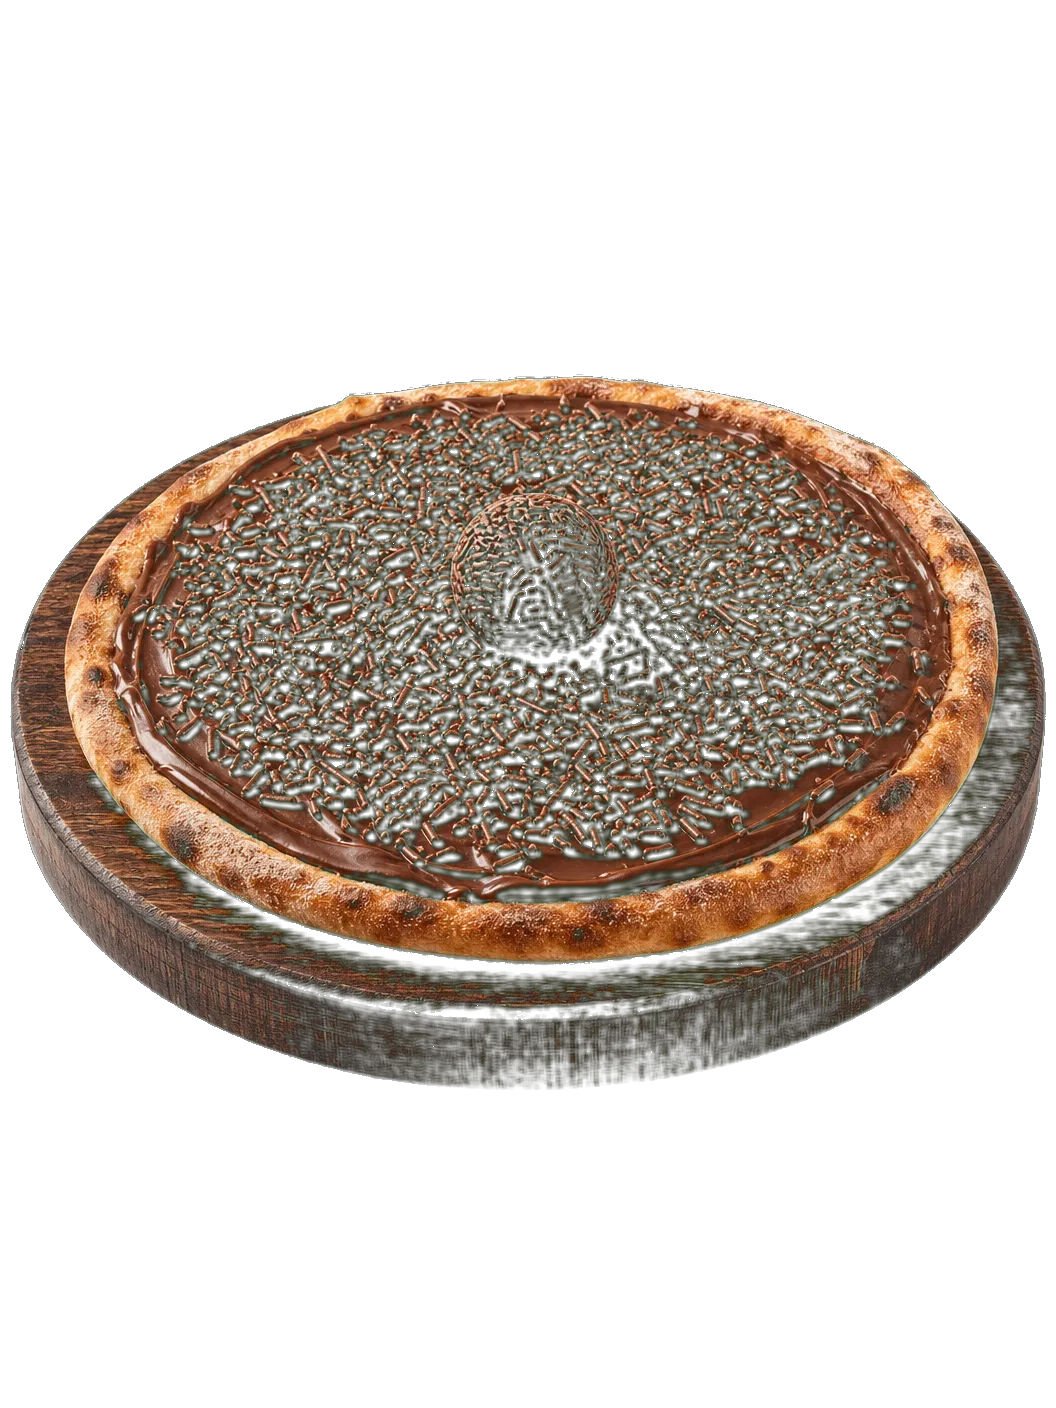
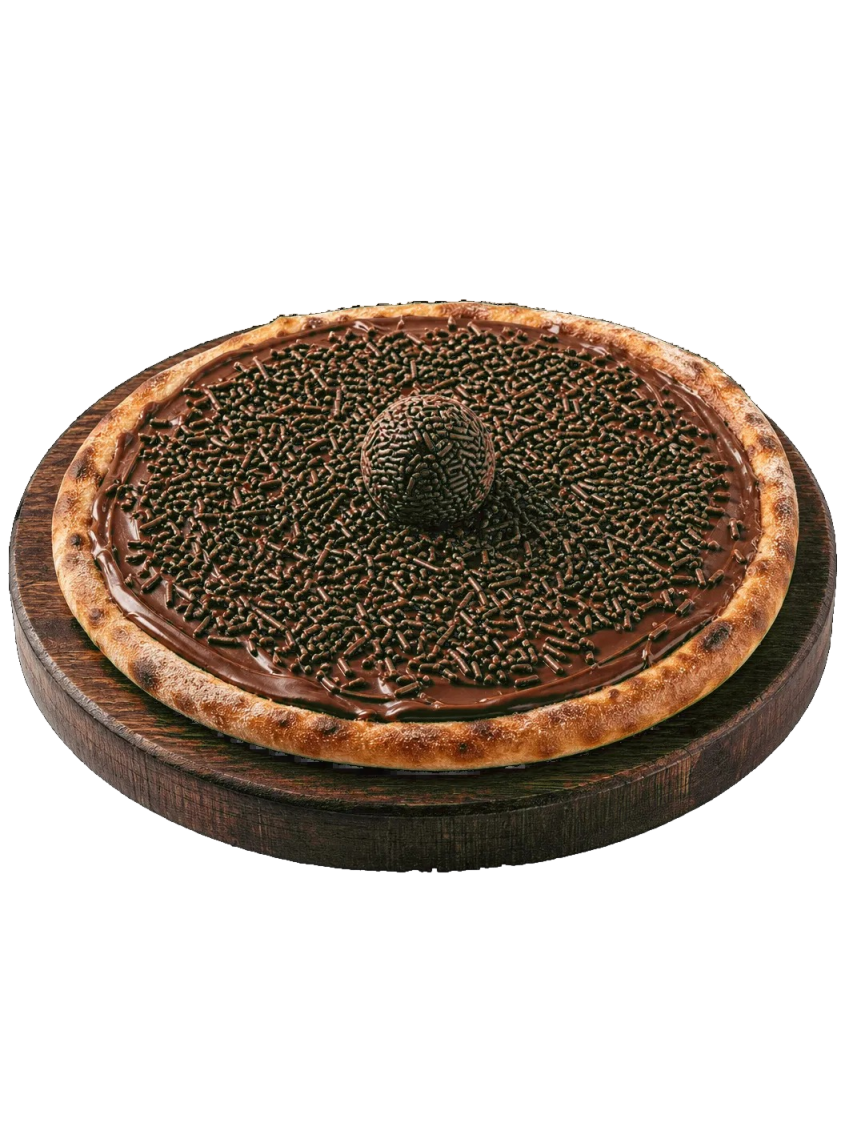
correção endereço imagens

Changed region(s): [[0.1231, 0.2795, 1.0, 0.7764], [0.0923, 0.559, 0.1231, 0.5901], [0.0, 0.4348, 0.0308, 0.4658]]

diff --git a/components/loader.js b/components/loader.js
@@ -80,30 +80,30 @@ document.addEventListener("DOMContentLoaded", () => {
     // BUSCA COM AUTOCOMPLETE
     // ============================================================
     const catalogoBusca = [
-        { sabor: "calabresa",            titulo: "Pizza de Calabresa",              preco: "R$ 62,00", imagem: "images/cardapio_pizza/pizza1.jpg" },
-        { sabor: "margherita",            titulo: "Pizza Margherita",                preco: "R$ 65,00", imagem: "images/cardapio_pizza/pizza2.jpg" },
-        { sabor: "frango_catupiry",       titulo: "Pizza de Frango c/ Catupiry",     preco: "R$ 60,00", imagem: "images/cardapio_pizza/pizza3.jpg" },
-        { sabor: "queijo",               titulo: "Pizza de Queijo",                 preco: "R$ 64,00", imagem: "images/cardapio_pizza/pizza4.jpg" },
-        { sabor: "portuguesa",           titulo: "Pizza Portuguesa",                preco: "R$ 66,00", imagem: "images/cardapio_pizza/pizza5.jpg" },
-        { sabor: "quatro_queijos",       titulo: "Pizza 4 Queijos",                 preco: "R$ 66,00", imagem: "images/cardapio_pizza/pizza6.jpg" },
-        { sabor: "palmito",              titulo: "Pizza de Palmito",               preco: "R$ 66,00", imagem: "images/cardapio_pizza/pizza7.jpg" },
-        { sabor: "presunto_queijo",      titulo: "Pizza de Presunto e Queijo",      preco: "R$ 66,00", imagem: "images/cardapio_pizza/pizza8.jpg" },
-        { sabor: "bacon",                titulo: "Pizza de Bacon",                  preco: "R$ 63,00", imagem: "images/cardapio_pizza/pizza9.jpg" },
-        { sabor: "pepperoni",            titulo: "Pizza de Pepperoni",              preco: "R$ 63,00", imagem: "images/cardapio_pizza/pizza10.jpg" },
-        { sabor: "moda_casa",            titulo: "Pizza à Moda da Casa",            preco: "R$ 63,00", imagem: "images/cardapio_pizza/pizza11.jpg" },
-        { sabor: "strogonoff",           titulo: "Pizza de Strogonoff",             preco: "R$ 63,00", imagem: "images/cardapio_pizza/pizza12.jpg" },
-        { sabor: "margherita_veggie",    titulo: "Pizza Margherita Vegetariana",    preco: "R$ 70,00", imagem: "images/cardapio_pizza/pizza2.jpg" },
-        { sabor: "milho_catupiry",       titulo: "Pizza de Milho com Catupiry",     preco: "R$ 70,00", imagem: "images/cardapio_pizza/pizza14.jpg" },
-        { sabor: "escarola",             titulo: "Pizza de Escarola",               preco: "R$ 72,00", imagem: "images/cardapio_pizza/pizza15.jpg" },
-        { sabor: "berinjela",            titulo: "Pizza de Berinjela",              preco: "R$ 70,00", imagem: "images/cardapio_pizza/pizza16.jpg" },
-        { sabor: "funghi",               titulo: "Pizza de Funghi",                 preco: "R$ 72,00", imagem: "images/cardapio_pizza/pizza17.jpg" },
-        { sabor: "vegetariana_completa", titulo: "Pizza Vegetariana Completa",      preco: "R$ 74,00", imagem: "images/cardapio_pizza/pizza18.jpg" },
-        { sabor: "brigadeiro",           titulo: "Pizza de Brigadeiro",             preco: "R$ 62,00", imagem: "images/sobremesas/sobremesa1.jfif" },
-        { sabor: "morango_chocolate",    titulo: "Pizza de Morango com Chocolate",  preco: "R$ 65,00", imagem: "images/sobremesas/sobremesa2.jfif" },
-        { sabor: "romeu_julieta",        titulo: "Pizza Romeu e Julieta",           preco: "R$ 60,00", imagem: "images/sobremesas/sobremesa3.jfif" },
-        { sabor: "banana_canela",        titulo: "Pizza de Banana com Canela",      preco: "R$ 64,00", imagem: "images/sobremesas/sobremesa4.jfif" },
-        { sabor: "nutella_morango",      titulo: "Pizza de Nutella com Morango",    preco: "R$ 66,00", imagem: "images/sobremesas/sobremesa5.jfif" },
-        { sabor: "prestigio",            titulo: "Pizza de Prestígio",              preco: "R$ 63,00", imagem: "images/sobremesas/sobremesa6.jfif" },
+        { sabor: "calabresa",            titulo: "Pizza de Calabresa",              preco: "R$ 62,00", imagem: "images/cardapio_pizza/pizza1.png" },
+        { sabor: "margherita",            titulo: "Pizza Margherita",                preco: "R$ 65,00", imagem: "images/cardapio_pizza/pizza2.png" },
+        { sabor: "frango_catupiry",       titulo: "Pizza de Frango c/ Catupiry",     preco: "R$ 60,00", imagem: "images/cardapio_pizza/pizza3.png" },
+        { sabor: "queijo",               titulo: "Pizza de Queijo",                 preco: "R$ 64,00", imagem: "images/cardapio_pizza/pizza4.png" },
+        { sabor: "portuguesa",           titulo: "Pizza Portuguesa",                preco: "R$ 66,00", imagem: "images/cardapio_pizza/pizza5.png" },
+        { sabor: "quatro_queijos",       titulo: "Pizza 4 Queijos",                 preco: "R$ 66,00", imagem: "images/cardapio_pizza/pizza6.png" },
+        { sabor: "palmito",              titulo: "Pizza de Palmito",               preco: "R$ 66,00", imagem: "images/cardapio_pizza/pizza7.png" },
+        { sabor: "presunto_queijo",      titulo: "Pizza de Presunto e Queijo",      preco: "R$ 66,00", imagem: "images/cardapio_pizza/pizza8.png" },
+        { sabor: "bacon",                titulo: "Pizza de Bacon",                  preco: "R$ 63,00", imagem: "images/cardapio_pizza/pizza9.png" },
+        { sabor: "pepperoni",            titulo: "Pizza de Pepperoni",              preco: "R$ 63,00", imagem: "images/cardapio_pizza/pizza10.png" },
+        { sabor: "moda_casa",            titulo: "Pizza à Moda da Casa",            preco: "R$ 63,00", imagem: "images/cardapio_pizza/pizza11.png" },
+        { sabor: "strogonoff",           titulo: "Pizza de Strogonoff",             preco: "R$ 63,00", imagem: "images/cardapio_pizza/pizza12.png" },
+        { sabor: "margherita_veggie",    titulo: "Pizza Margherita Vegetariana",    preco: "R$ 70,00", imagem: "images/cardapio_pizza/pizza2.png" },
+        { sabor: "milho_catupiry",       titulo: "Pizza de Milho com Catupiry",     preco: "R$ 70,00", imagem: "images/cardapio_pizza/pizza14.png" },
+        { sabor: "escarola",             titulo: "Pizza de Escarola",               preco: "R$ 72,00", imagem: "images/cardapio_pizza/pizza15.png" },
+        { sabor: "berinjela",            titulo: "Pizza de Berinjela",              preco: "R$ 70,00", imagem: "images/cardapio_pizza/pizza16.png" },
+        { sabor: "funghi",               titulo: "Pizza de Funghi",                 preco: "R$ 72,00", imagem: "images/cardapio_pizza/pizza17.png" },
+        { sabor: "vegetariana_completa", titulo: "Pizza Vegetariana Completa",      preco: "R$ 74,00", imagem: "images/cardapio_pizza/pizza18.png" },
+        { sabor: "brigadeiro",           titulo: "Pizza de Brigadeiro",             preco: "R$ 62,00", imagem: "images/sobremesas/sobremesa1.png" },
+        { sabor: "morango_chocolate",    titulo: "Pizza de Morango com Chocolate",  preco: "R$ 65,00", imagem: "images/sobremesas/sobremesa2.png" },
+        { sabor: "romeu_julieta",        titulo: "Pizza Romeu e Julieta",           preco: "R$ 60,00", imagem: "images/sobremesas/sobremesa3.png" },
+        { sabor: "banana_canela",        titulo: "Pizza de Banana com Canela",      preco: "R$ 64,00", imagem: "images/sobremesas/sobremesa4.png" },
+        { sabor: "nutella_morango",      titulo: "Pizza de Nutella com Morango",    preco: "R$ 66,00", imagem: "images/sobremesas/sobremesa5.png" },
+        { sabor: "prestigio",            titulo: "Pizza de Prestígio",              preco: "R$ 63,00", imagem: "images/sobremesas/sobremesa6.png" },
         { sabor: "oreo",                 titulo: "Iceberg de Oreo",                 preco: "R$ 70,00", imagem: "images/sobremesas/sobremesa7.png" },
         { sabor: "ninho",                titulo: "Nevasca de Ninho",               preco: "R$ 70,00", imagem: "images/sobremesas/sobremesa8.png" },
         { sabor: "glaciar_frutas",       titulo: "Glaciar de Frutas",              preco: "R$ 72,00", imagem: "images/sobremesas/sobremesa9.png" },
@@ -119,15 +119,15 @@ document.addEventListener("DOMContentLoaded", () => {
         { sabor: "coca_cola",            titulo: "Coca-Cola",                      preco: "R$ 11,50", imagem: "images/bebidas/bebida7.png" },
         { sabor: "guarana_antarctica",   titulo: "Guaraná Antarctica",             preco: "R$ 10,90", imagem: "images/bebidas/bebida8.png" },
         { sabor: "pepsi",                titulo: "Pepsi",                          preco: "R$ 10,90", imagem: "images/bebidas/bebida9.png" },
-        { sabor: "sprite",               titulo: "Sprite",                         preco: "R$ 10,90", imagem: "images/bebidas/bebida10.jpg" },
-        { sabor: "suco_manga",           titulo: "Suco de Manga Fresh",            preco: "R$ 12,90", imagem: "images/bebidas/bebida11.jpg" },
+        { sabor: "sprite",               titulo: "Sprite",                         preco: "R$ 10,90", imagem: "images/bebidas/bebida10.png" },
+        { sabor: "suco_manga",           titulo: "Suco de Manga Fresh",            preco: "R$ 12,90", imagem: "images/bebidas/bebida11.png" },
         { sabor: "suco_melancia",        titulo: "Suco de Melancia Fresh",         preco: "R$ 12,90", imagem: "images/bebidas/bebida12.png" },
-        { sabor: "suco_morango",         titulo: "Suco de Morango Fresh",          preco: "R$ 12,90", imagem: "images/bebidas/bebida13.jpg" },
-        { sabor: "suco_abacaxi",         titulo: "Suco de Abacaxi Fresh",          preco: "R$ 12,90", imagem: "images/bebidas/bebida14.jpg" },
-        { sabor: "suco_maracuja",        titulo: "Suco de Maracujá Fresh",         preco: "R$ 12,90", imagem: "images/bebidas/bebida15.jpg" },
-        { sabor: "suco_uva",             titulo: "Suco de Uva Fresh",              preco: "R$ 12,90", imagem: "images/bebidas/bebida16.jpg" },
-        { sabor: "suco_limao",           titulo: "Suco de Limão Fresh",            preco: "R$ 12,90", imagem: "images/bebidas/bebida17.jpg" },
-        { sabor: "suco_tutti_frutti",    titulo: "Suco de Tutti-Frutti Fresh",     preco: "R$ 12,90", imagem: "images/bebidas/bebida18.jpg" }
+        { sabor: "suco_morango",         titulo: "Suco de Morango Fresh",          preco: "R$ 12,90", imagem: "images/bebidas/bebida13.png" },
+        { sabor: "suco_abacaxi",         titulo: "Suco de Abacaxi Fresh",          preco: "R$ 12,90", imagem: "images/bebidas/bebida14.png" },
+        { sabor: "suco_maracuja",        titulo: "Suco de Maracujá Fresh",         preco: "R$ 12,90", imagem: "images/bebidas/bebida15.png" },
+        { sabor: "suco_uva",             titulo: "Suco de Uva Fresh",              preco: "R$ 12,90", imagem: "images/bebidas/bebida16.png" },
+        { sabor: "suco_limao",           titulo: "Suco de Limão Fresh",            preco: "R$ 12,90", imagem: "images/bebidas/bebida17.png" },
+        { sabor: "suco_tutti_frutti",    titulo: "Suco de Tutti-Frutti Fresh",     preco: "R$ 12,90", imagem: "images/bebidas/bebida18.png" }
     ];
 
     function normalizarTexto(texto) {

diff --git a/busca.html b/busca.html
@@ -222,30 +222,30 @@
     <script>
         // ── Catálogo completo (espelhado do loader.js) ──────────────────────
         const catalogoBusca = [
-            { sabor: "calabresa",            titulo: "Pizza de Calabresa",              preco: "R$ 62,00", imagem: "images/cardapio_pizza/pizza1.jpg" },
-            { sabor: "margherita",            titulo: "Pizza Margherita",                preco: "R$ 65,00", imagem: "images/cardapio_pizza/pizza2.jpg" },
-            { sabor: "frango_catupiry",       titulo: "Pizza de Frango c/ Catupiry",     preco: "R$ 60,00", imagem: "images/cardapio_pizza/pizza3.jpg" },
-            { sabor: "queijo",               titulo: "Pizza de Queijo",                 preco: "R$ 64,00", imagem: "images/cardapio_pizza/pizza4.jpg" },
-            { sabor: "portuguesa",           titulo: "Pizza Portuguesa",                preco: "R$ 66,00", imagem: "images/cardapio_pizza/pizza5.jpg" },
-            { sabor: "quatro_queijos",       titulo: "Pizza 4 Queijos",                 preco: "R$ 66,00", imagem: "images/cardapio_pizza/pizza6.jpg" },
-            { sabor: "palmito",              titulo: "Pizza de Palmito",               preco: "R$ 66,00", imagem: "images/cardapio_pizza/pizza7.jpg" },
-            { sabor: "presunto_queijo",      titulo: "Pizza de Presunto e Queijo",      preco: "R$ 66,00", imagem: "images/cardapio_pizza/pizza8.jpg" },
-            { sabor: "bacon",                titulo: "Pizza de Bacon",                  preco: "R$ 63,00", imagem: "images/cardapio_pizza/pizza9.jpg" },
-            { sabor: "pepperoni",            titulo: "Pizza de Pepperoni",              preco: "R$ 63,00", imagem: "images/cardapio_pizza/pizza10.jpg" },
-            { sabor: "moda_casa",            titulo: "Pizza à Moda da Casa",            preco: "R$ 63,00", imagem: "images/cardapio_pizza/pizza11.jpg" },
-            { sabor: "strogonoff",           titulo: "Pizza de Strogonoff",             preco: "R$ 63,00", imagem: "images/cardapio_pizza/pizza12.jpg" },
-            { sabor: "margherita_veggie",    titulo: "Pizza Margherita Vegetariana",    preco: "R$ 70,00", imagem: "images/cardapio_pizza/pizza2.jpg" },
-            { sabor: "milho_catupiry",       titulo: "Pizza de Milho com Catupiry",     preco: "R$ 70,00", imagem: "images/cardapio_pizza/pizza14.jpg" },
-            { sabor: "escarola",             titulo: "Pizza de Escarola",               preco: "R$ 72,00", imagem: "images/cardapio_pizza/pizza15.jpg" },
-            { sabor: "berinjela",            titulo: "Pizza de Berinjela",              preco: "R$ 70,00", imagem: "images/cardapio_pizza/pizza16.jpg" },
-            { sabor: "funghi",               titulo: "Pizza de Funghi",                 preco: "R$ 72,00", imagem: "images/cardapio_pizza/pizza17.jpg" },
-            { sabor: "vegetariana_completa", titulo: "Pizza Vegetariana Completa",      preco: "R$ 74,00", imagem: "images/cardapio_pizza/pizza18.jpg" },
-            { sabor: "brigadeiro",           titulo: "Pizza de Brigadeiro",             preco: "R$ 62,00", imagem: "images/sobremesas/sobremesa1.jfif" },
-            { sabor: "morango_chocolate",    titulo: "Pizza de Morango com Chocolate",  preco: "R$ 65,00", imagem: "images/sobremesas/sobremesa2.jfif" },
-            { sabor: "romeu_julieta",        titulo: "Pizza Romeu e Julieta",           preco: "R$ 60,00", imagem: "images/sobremesas/sobremesa3.jfif" },
-            { sabor: "banana_canela",        titulo: "Pizza de Banana com Canela",      preco: "R$ 64,00", imagem: "images/sobremesas/sobremesa4.jfif" },
-            { sabor: "nutella_morango",      titulo: "Pizza de Nutella com Morango",    preco: "R$ 66,00", imagem: "images/sobremesas/sobremesa5.jfif" },
-            { sabor: "prestigio",            titulo: "Pizza de Prestígio",              preco: "R$ 63,00", imagem: "images/sobremesas/sobremesa6.jfif" },
+            { sabor: "calabresa",            titulo: "Pizza de Calabresa",              preco: "R$ 62,00", imagem: "images/cardapio_pizza/pizza1.png" },
+            { sabor: "margherita",            titulo: "Pizza Margherita",                preco: "R$ 65,00", imagem: "images/cardapio_pizza/pizza2.png" },
+            { sabor: "frango_catupiry",       titulo: "Pizza de Frango c/ Catupiry",     preco: "R$ 60,00", imagem: "images/cardapio_pizza/pizza3.png" },
+            { sabor: "queijo",               titulo: "Pizza de Queijo",                 preco: "R$ 64,00", imagem: "images/cardapio_pizza/pizza4.png" },
+            { sabor: "portuguesa",           titulo: "Pizza Portuguesa",                preco: "R$ 66,00", imagem: "images/cardapio_pizza/pizza5.png" },
+            { sabor: "quatro_queijos",       titulo: "Pizza 4 Queijos",                 preco: "R$ 66,00", imagem: "images/cardapio_pizza/pizza6.png" },
+            { sabor: "palmito",              titulo: "Pizza de Palmito",               preco: "R$ 66,00", imagem: "images/cardapio_pizza/pizza7.png" },
+            { sabor: "presunto_queijo",      titulo: "Pizza de Presunto e Queijo",      preco: "R$ 66,00", imagem: "images/cardapio_pizza/pizza8.png" },
+            { sabor: "bacon",                titulo: "Pizza de Bacon",                  preco: "R$ 63,00", imagem: "images/cardapio_pizza/pizza9.png" },
+            { sabor: "pepperoni",            titulo: "Pizza de Pepperoni",              preco: "R$ 63,00", imagem: "images/cardapio_pizza/pizza10.png" },
+            { sabor: "moda_casa",            titulo: "Pizza à Moda da Casa",            preco: "R$ 63,00", imagem: "images/cardapio_pizza/pizza11.png" },
+            { sabor: "strogonoff",           titulo: "Pizza de Strogonoff",             preco: "R$ 63,00", imagem: "images/cardapio_pizza/pizza12.png" },
+            { sabor: "margherita_veggie",    titulo: "Pizza Margherita Vegetariana",    preco: "R$ 70,00", imagem: "images/cardapio_pizza/pizza2.png" },
+            { sabor: "milho_catupiry",       titulo: "Pizza de Milho com Catupiry",     preco: "R$ 70,00", imagem: "images/cardapio_pizza/pizza14.png" },
+            { sabor: "escarola",             titulo: "Pizza de Escarola",               preco: "R$ 72,00", imagem: "images/cardapio_pizza/pizza15.png" },
+            { sabor: "berinjela",            titulo: "Pizza de Berinjela",              preco: "R$ 70,00", imagem: "images/cardapio_pizza/pizza16.png" },
+            { sabor: "funghi",               titulo: "Pizza de Funghi",                 preco: "R$ 72,00", imagem: "images/cardapio_pizza/pizza17.png" },
+            { sabor: "vegetariana_completa", titulo: "Pizza Vegetariana Completa",      preco: "R$ 74,00", imagem: "images/cardapio_pizza/pizza18.png" },
+            { sabor: "brigadeiro",           titulo: "Pizza de Brigadeiro",             preco: "R$ 62,00", imagem: "images/sobremesas/sobremesa1.png" },
+            { sabor: "morango_chocolate",    titulo: "Pizza de Morango com Chocolate",  preco: "R$ 65,00", imagem: "images/sobremesas/sobremesa2.png" },
+            { sabor: "romeu_julieta",        titulo: "Pizza Romeu e Julieta",           preco: "R$ 60,00", imagem: "images/sobremesas/sobremesa3.png" },
+            { sabor: "banana_canela",        titulo: "Pizza de Banana com Canela",      preco: "R$ 64,00", imagem: "images/sobremesas/sobremesa4.png" },
+            { sabor: "nutella_morango",      titulo: "Pizza de Nutella com Morango",    preco: "R$ 66,00", imagem: "images/sobremesas/sobremesa5.png" },
+            { sabor: "prestigio",            titulo: "Pizza de Prestígio",              preco: "R$ 63,00", imagem: "images/sobremesas/sobremesa6.png" },
             { sabor: "oreo",                 titulo: "Iceberg de Oreo",                 preco: "R$ 70,00", imagem: "images/sobremesas/sobremesa7.png" },
             { sabor: "ninho",                titulo: "Nevasca de Ninho",               preco: "R$ 70,00", imagem: "images/sobremesas/sobremesa8.png" },
             { sabor: "glaciar_frutas",       titulo: "Glaciar de Frutas",              preco: "R$ 72,00", imagem: "images/sobremesas/sobremesa9.png" },

diff --git a/script_produto.js b/script_produto.js
@@ -249,7 +249,7 @@ const cardapio = {
         titulo: "Sprite",
         preco: "R$ 10,90",
         descricao: "Refrigerante Sprite Lata 350ml gelado e refrescante.",
-        imagem: "images/bebidas/bebida10.jpg"
+        imagem: "images/bebidas/bebida10.png"
     },
 
     // === SUCOS ===
@@ -257,7 +257,7 @@ const cardapio = {
         titulo: "Suco de Manga Fresh",
         preco: "R$ 12,90",
         descricao: "Suco natural e refrescante de manga madura selecionada, batido na hora com gelo.",
-        imagem: "images/bebidas/bebida11.jpg"
+        imagem: "images/bebidas/bebida11.png"
     },
     suco_melancia: {
         titulo: "Suco de Melancia Fresh",
@@ -269,37 +269,37 @@ const cardapio = {
         titulo: "Suco de Morango Fresh",
         preco: "R$ 12,90",
         descricao: "Suco natural de morangos frescos batidos na hora.",
-        imagem: "images/bebidas/bebida13.jpg"
+        imagem: "images/bebidas/bebida13.png"
     },
     suco_abacaxi: {
         titulo: "Suco de Abacaxi Fresh",
         preco: "R$ 12,90",
         descricao: "Suco natural de abacaxi fresco batido com hortelã opcional e gelo.",
-        imagem: "images/bebidas/bebida14.jpg"
+        imagem: "images/bebidas/bebida14.png"
     },
     suco_maracuja: {
         titulo: "Suco de Maracujá Fresh",
         preco: "R$ 12,90",
         descricao: "Suco natural de maracujá da fruta, perfeito equilíbrio entre o cítrico e o doce.",
-        imagem: "images/bebidas/bebida15.jpg"
+        imagem: "images/bebidas/bebida15.png"
     },
     suco_uva: {
         titulo: "Suco de Uva Fresh",
         preco: "R$ 12,90",
         descricao: "Suco natural de uva roxa concentrado e saboroso.",
-        imagem: "images/bebidas/bebida16.jpg"
+        imagem: "images/bebidas/bebida16.png"
     },
     suco_limao: {
         titulo: "Suco de Limão Fresh",
         preco: "R$ 12,90",
         descricao: "Limonada suíça fresh feita com limões espremidos na hora com casca, bem gelada.",
-        imagem: "images/bebidas/bebida17.jpg"
+        imagem: "images/bebidas/bebida17.png"
     },
     suco_tutti_frutti: {
         titulo: "Suco de Tutti-Frutti Fresh",
         preco: "R$ 12,90",
         descricao: "Delicioso e colorido suco sabor tutti-frutti com um mix especial de xaropes e geléias coloridas.",
-        imagem: "images/bebidas/bebida18.jpg"
+        imagem: "images/bebidas/bebida18.png"
     }
 };
 

diff --git a/main.html b/main.html
@@ -17,17 +17,17 @@
             <a href="produto.html?sabor=calabresa"><article>
                 <h2>Pizza de Calabresa</h2>
                 <p>Deliciosa pizza de calabresa com queijo e molho especial.</p>
-                <img src="images/pizza_calabresa.jpg" alt="Pizza de Calabresa">
+                <img src="images/cardapio_pizza/pizza1.png" alt="Pizza de Calabresa">
             </article></a>
             <a href="produto.html?sabor=margherita"><article>
                 <h2>Pizza de Margherita</h2>
                 <p>Clássica pizza de margherita com tomate, mussarela e manjericão.</p>
-                <img src="images/pizza_margherita.jpg" alt="Pizza de Margherita">
+                <img src="images/cardapio_pizza/pizza2.png" alt="Pizza de Margherita">
             </article></a>
             <a href="produto.html?sabor=frango_catupiry"><article>
                 <h2>Pizza de Frango com Catupiry</h2>
                 <p>Saborosa pizza de frango com catupiry e temperos especiais.</p>
-                <img src="images/pizza_frangoCatupiry.jpg" alt="Pizza de Frango com Catupiry">
+                <img src="images/cardapio_pizza/pizza3.png" alt="Pizza de Frango com Catupiry">
             </article></a>    
         </section>  
         <section id="promocoes">